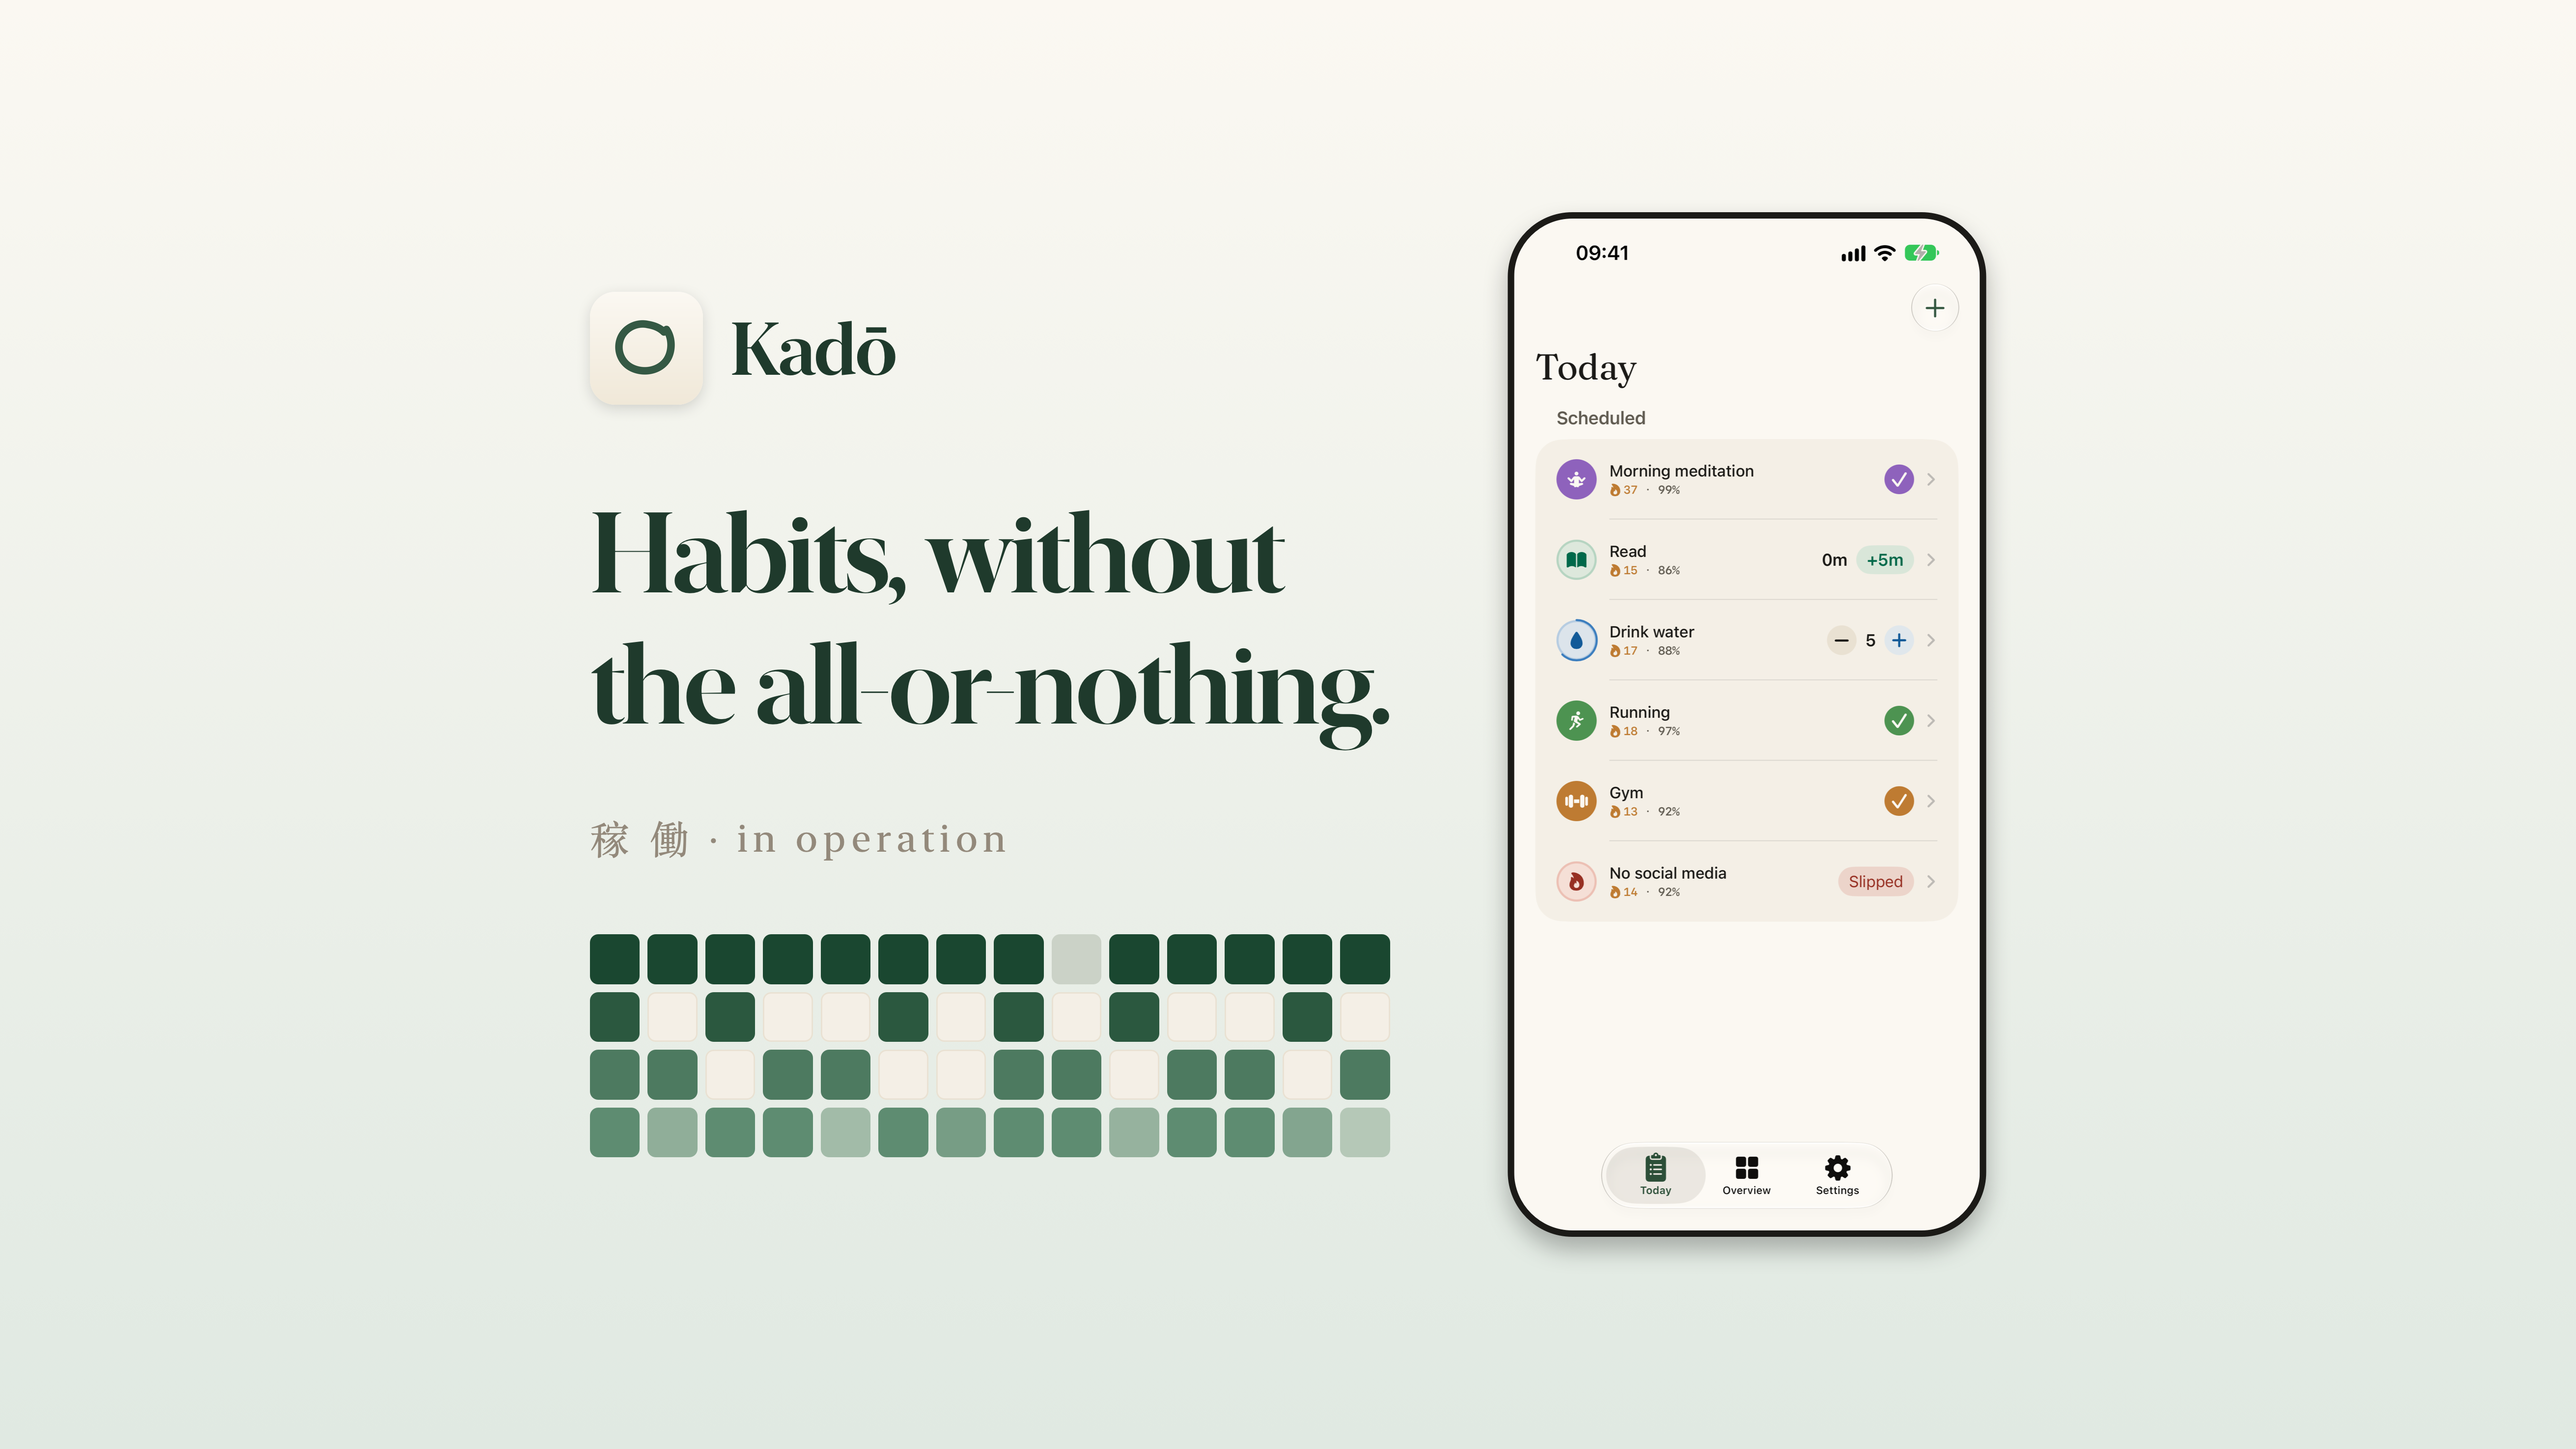
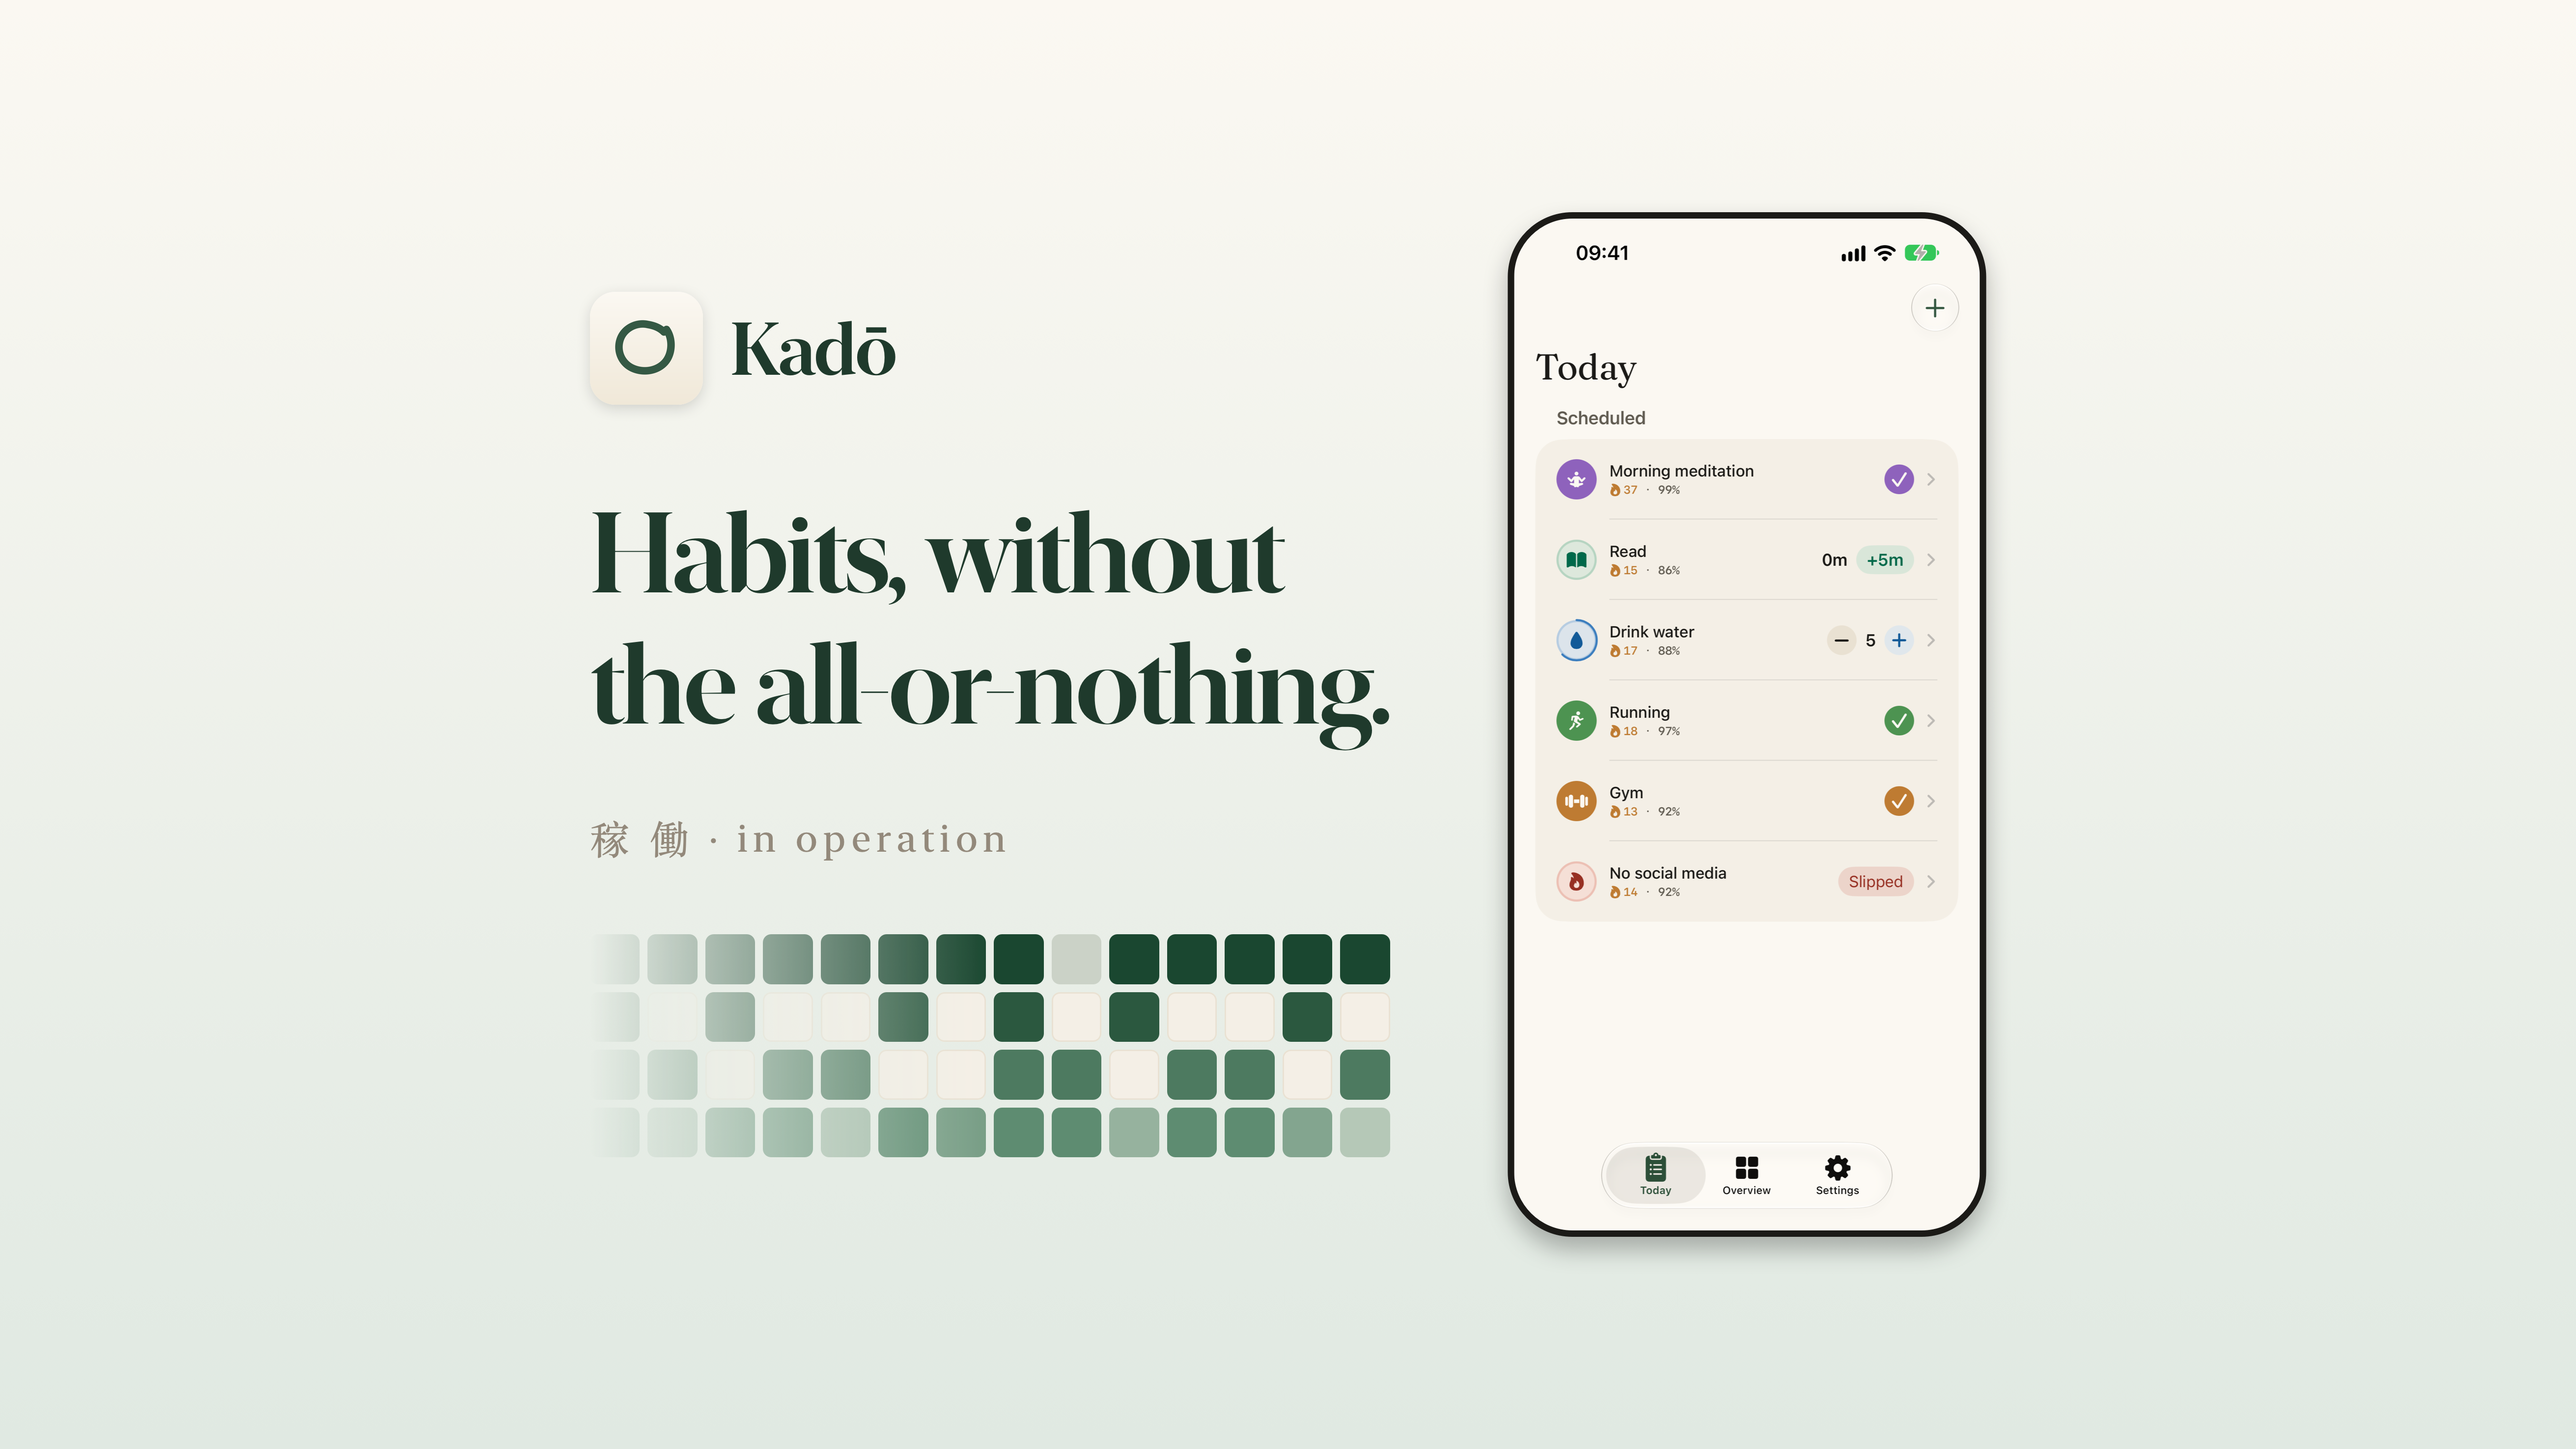
feat(listing): fade the creative's Overview grid out to the left
The grid is drawn into a transparency layer and masked destination-in with
a linear alpha gradient over the left half of its width, so cells and their
hairlines fade together into the paper. The written PNG stays flattened,
with no alpha channel.

Refs #131

Changed region(s): [[0.2176, 0.6237, 0.373, 0.8108]]

diff --git a/Scripts/frame-screenshots.swift b/Scripts/frame-screenshots.swift
@@ -578,6 +578,8 @@ enum Matrix {
     static let corner: CGFloat = 6
     static let notDueFill = rgb(0.957, 0.937, 0.902)  // kadoBackgroundSecondary, light
     static let hairline = rgb(0.914, 0.882, 0.824)    // kadoHairline, light
+    /// How much of the grid's width, from the left, the fade-in takes.
+    static let fadeLength: CGFloat = 0.5
 
     /// The grid's height when its width is `width`.
     static func height(width: CGFloat) -> CGFloat {
@@ -594,6 +596,33 @@ enum Matrix {
         let size = cell * scale
         let step = (cell + spacing) * scale
         let radius = corner * scale
+        let bounds = NSRect(
+            x: origin.x, y: origin.y - height(width: width), width: width, height: height(width: width)
+        )
+
+        // The grid fades out to the left, into the paper: older days recede, the way the
+        // Overview's own grid runs off the screen's leading edge. Drawn into a layer and then
+        // masked — `destinationIn` keeps what's there at the gradient's alpha — so the cells
+        // and their hairlines fade as one, rather than each going translucent over the other.
+        let context = NSGraphicsContext.current!.cgContext
+        context.beginTransparencyLayer(in: bounds.insetBy(dx: -scale, dy: -scale), auxiliaryInfo: nil)
+        defer {
+            let mask = CGGradient(
+                colorsSpace: CGColorSpace(name: CGColorSpace.sRGB),
+                colors: [NSColor.black.withAlphaComponent(0).cgColor, NSColor.black.cgColor] as CFArray,
+                locations: [0, fadeLength]
+            )!
+            context.setBlendMode(.destinationIn)
+            context.drawLinearGradient(
+                mask,
+                start: CGPoint(x: bounds.minX, y: bounds.midY),
+                end: CGPoint(x: bounds.maxX, y: bounds.midY),
+                options: [.drawsAfterEndLocation]
+            )
+            context.setBlendMode(.normal)
+            context.endTransparencyLayer()
+        }
+
         for (row, habit) in creativeMatrix.enumerated() {
             let sage = MonochromeHabit(slot: habit.slot)
             for (column, day) in habit.days.enumerated() {

diff --git a/docs/app-store/README.md b/docs/app-store/README.md
@@ -84,7 +84,7 @@ The widget views themselves live in `KadoCore` so the app can draw them; the ext
 
 On iOS 27 a listing has two landscape slots — a header across the top of the product page and a creative in search results — and one **universal** 16:9 image fills both. `make frames` draws it per locale into `marketing/<locale>/creative/universal.png`: **5244×2950, PNG, no alpha channel**. App Store Connect refuses any other size, and refuses alpha outright, even an alpha channel that is opaque everywhere, so the frame writes it through a no-alpha bitmap rather than the RGBA one the screenshots use. `make listing-check` checks all three.
 
-It is the same ground and the same Fraunces as the screenshots, laid out sideways: a text column beside that locale's iPhone `01-today` capture in a phone. The column has four tiers: the app icon and "Kadō", so a banner in search results says whose it is first; the `creative-universal` headline from `captions.json`; `稼 働 · in operation`, the wordmark from the foot of Settings, set as `SettingsView` sets it and left untranslated, as the app leaves it; and two weeks of the Overview grid in the monochrome sage theme. The grid is drawn, not cropped, because no capture shows the monochrome theme. Its cells are mixed in Oklab exactly as `MatrixCell` mixes them, and its rows are hand-set in `creativeMatrix`. Nothing in it is new artwork, so a recapture, a new default icon or a reworded headline carries through on the next `make frames`. The layout is `Creative` in `Scripts/frame-screenshots.swift`.
+It is the same ground and the same Fraunces as the screenshots, laid out sideways: a text column beside that locale's iPhone `01-today` capture in a phone. The column has four tiers: the app icon and "Kadō", so a banner in search results says whose it is first; the `creative-universal` headline from `captions.json`; `稼 働 · in operation`, the wordmark from the foot of Settings, set as `SettingsView` sets it and left untranslated, as the app leaves it; and two weeks of the Overview grid in the monochrome sage theme. The grid is drawn, not cropped, because no capture shows the monochrome theme. Its cells are mixed in Oklab exactly as `MatrixCell` mixes them, and its rows are hand-set in `creativeMatrix`. It fades into the paper over the left half of its width (`Matrix.fadeLength`), so older days recede. The fade is masked with alpha while drawing; the written PNG is still flattened with no alpha. Nothing in it is new artwork, so a recapture, a new default icon or a reworded headline carries through on the next `make frames`. The layout is `Creative` in `Scripts/frame-screenshots.swift`.
 
 **The safe band.** Apple crops the 16:9 to roughly 21:9 for the header and roughly 3:2 for search, and publishes no numbers. The headline and the phone are one group, centred, inside an assumed band of the middle 60% of the width and 75% of the height; only the ground runs outside it. Confirm the real crops in App Store Connect's **Preview** tool (iPhone and iPad, both orientations) after any change to the layout.
 

diff --git a/docs/plans/2026-10/listing-creative/README.md b/docs/plans/2026-10/listing-creative/README.md
@@ -9,6 +9,6 @@ Two compositions for the universal App Store creative (5244×2950, shown here at
 
 Why A: the creative is one idea for a first-time visitor, and the tiles in B said the same thing twice — they repeat the list's own rows at a smaller size — while covering the "Slipped" row, the one that makes *without the all-or-nothing* visible. B also pushes the group's weight to the right of the safe band.
 
-A on its own read as empty, so the shipped version, `final.png`, adds a text column above and below the headline: the app icon with "Kadō" in Fraunces, and the `稼 働 · in operation` wordmark from the foot of Settings. Under the wordmark it closes on a slice of the Overview grid in the monochrome sage theme: four habits × two weeks, with one miss, some partial days, and the scheduled habits' off days.
+A on its own read as empty, so the shipped version, `final.png`, adds a text column above and below the headline: the app icon with "Kadō" in Fraunces, and the `稼 働 · in operation` wordmark from the foot of Settings. Under the wordmark it closes on a slice of the Overview grid in the monochrome sage theme: four habits × two weeks, with one miss, some partial days, and the scheduled habits' off days. The grid fades out to the left, into the paper.
 
 Both crops of A, and of the final, were checked by centring 21:9 (5244×2247) and 3:2 (4425×2950) cuts: headline and phone stay whole in each with margin. Apple's real crops are still to be confirmed in App Store Connect's Preview tool.
